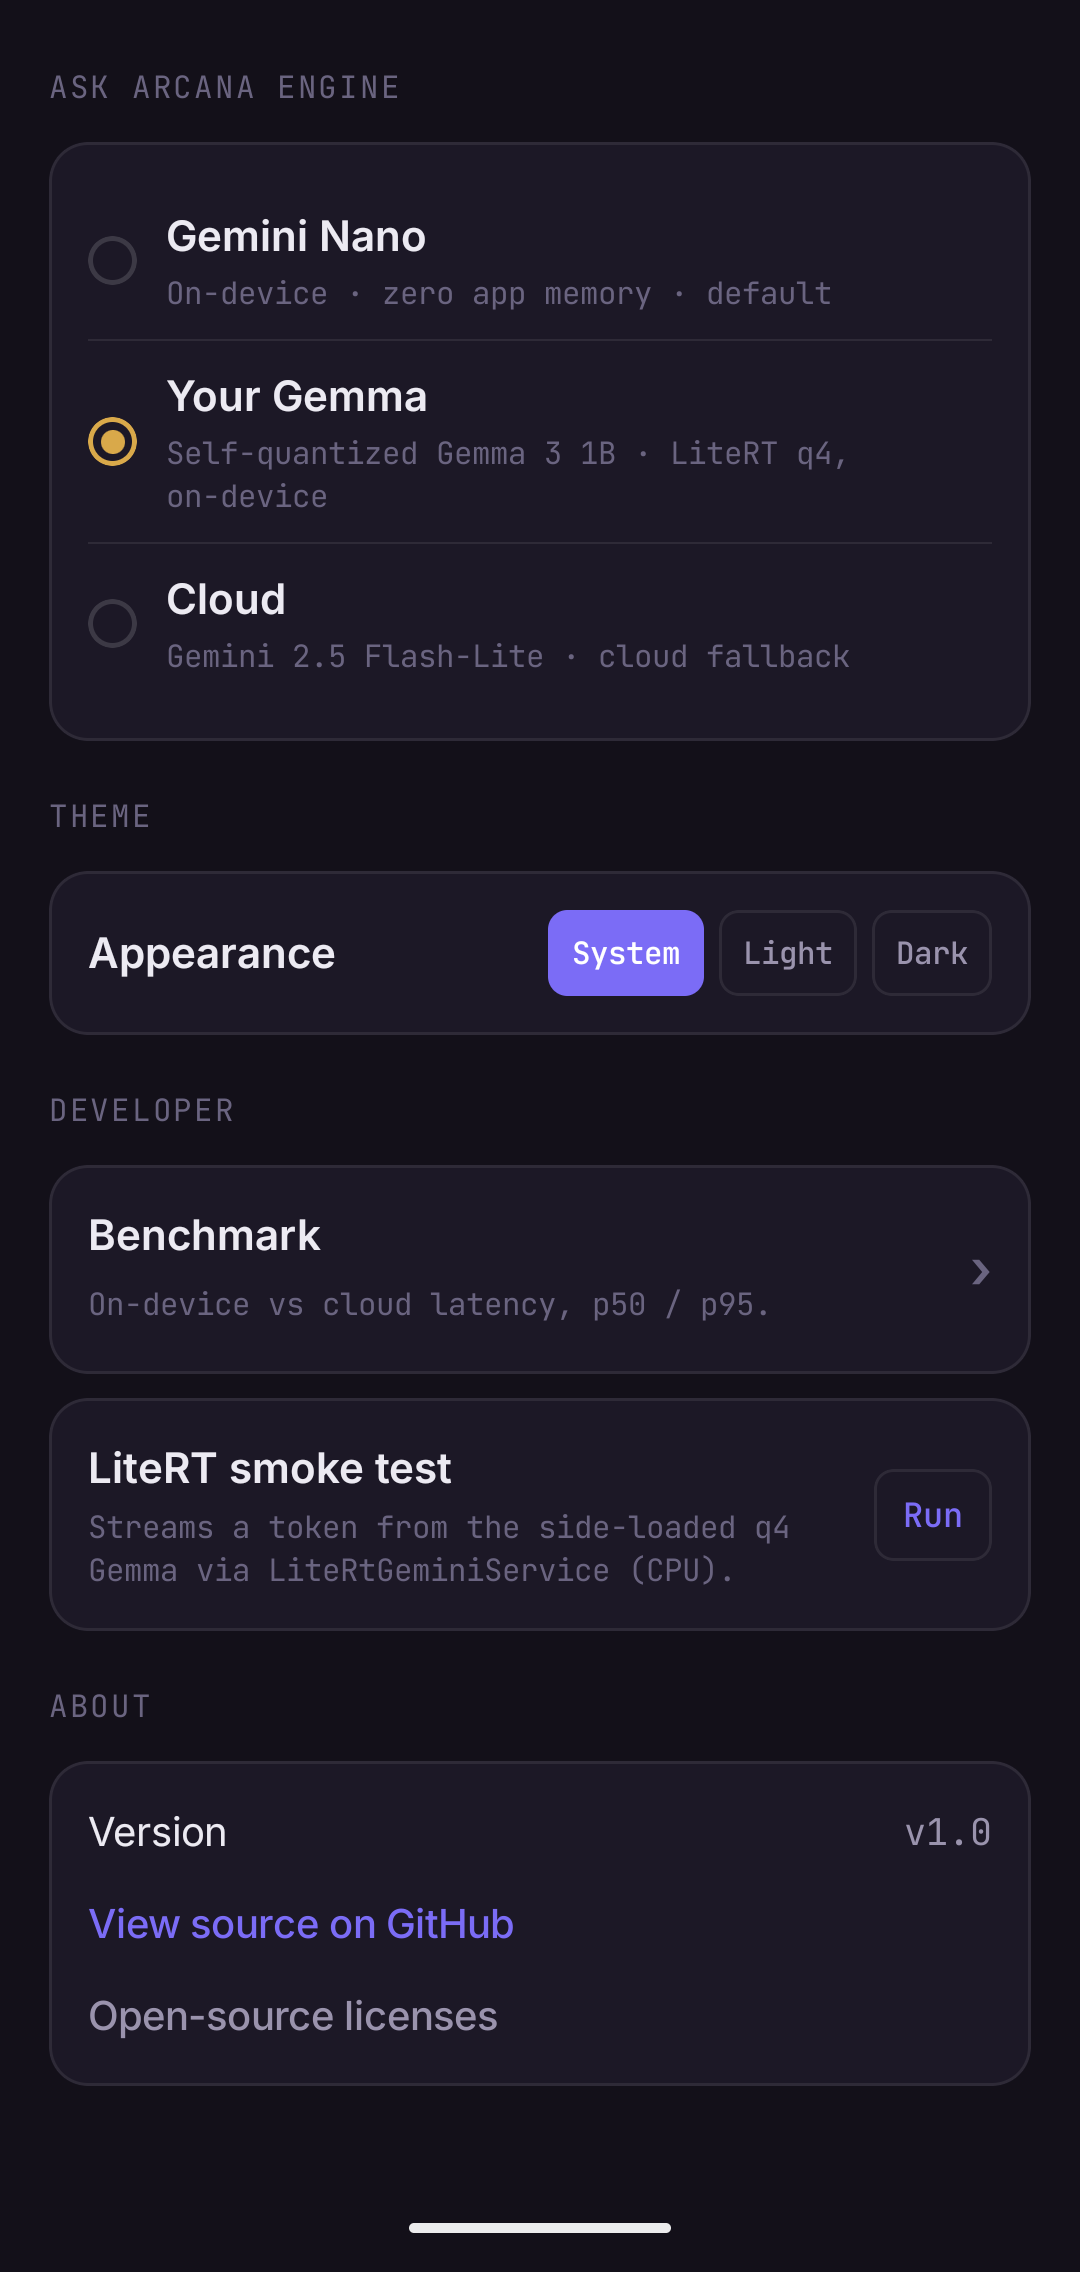
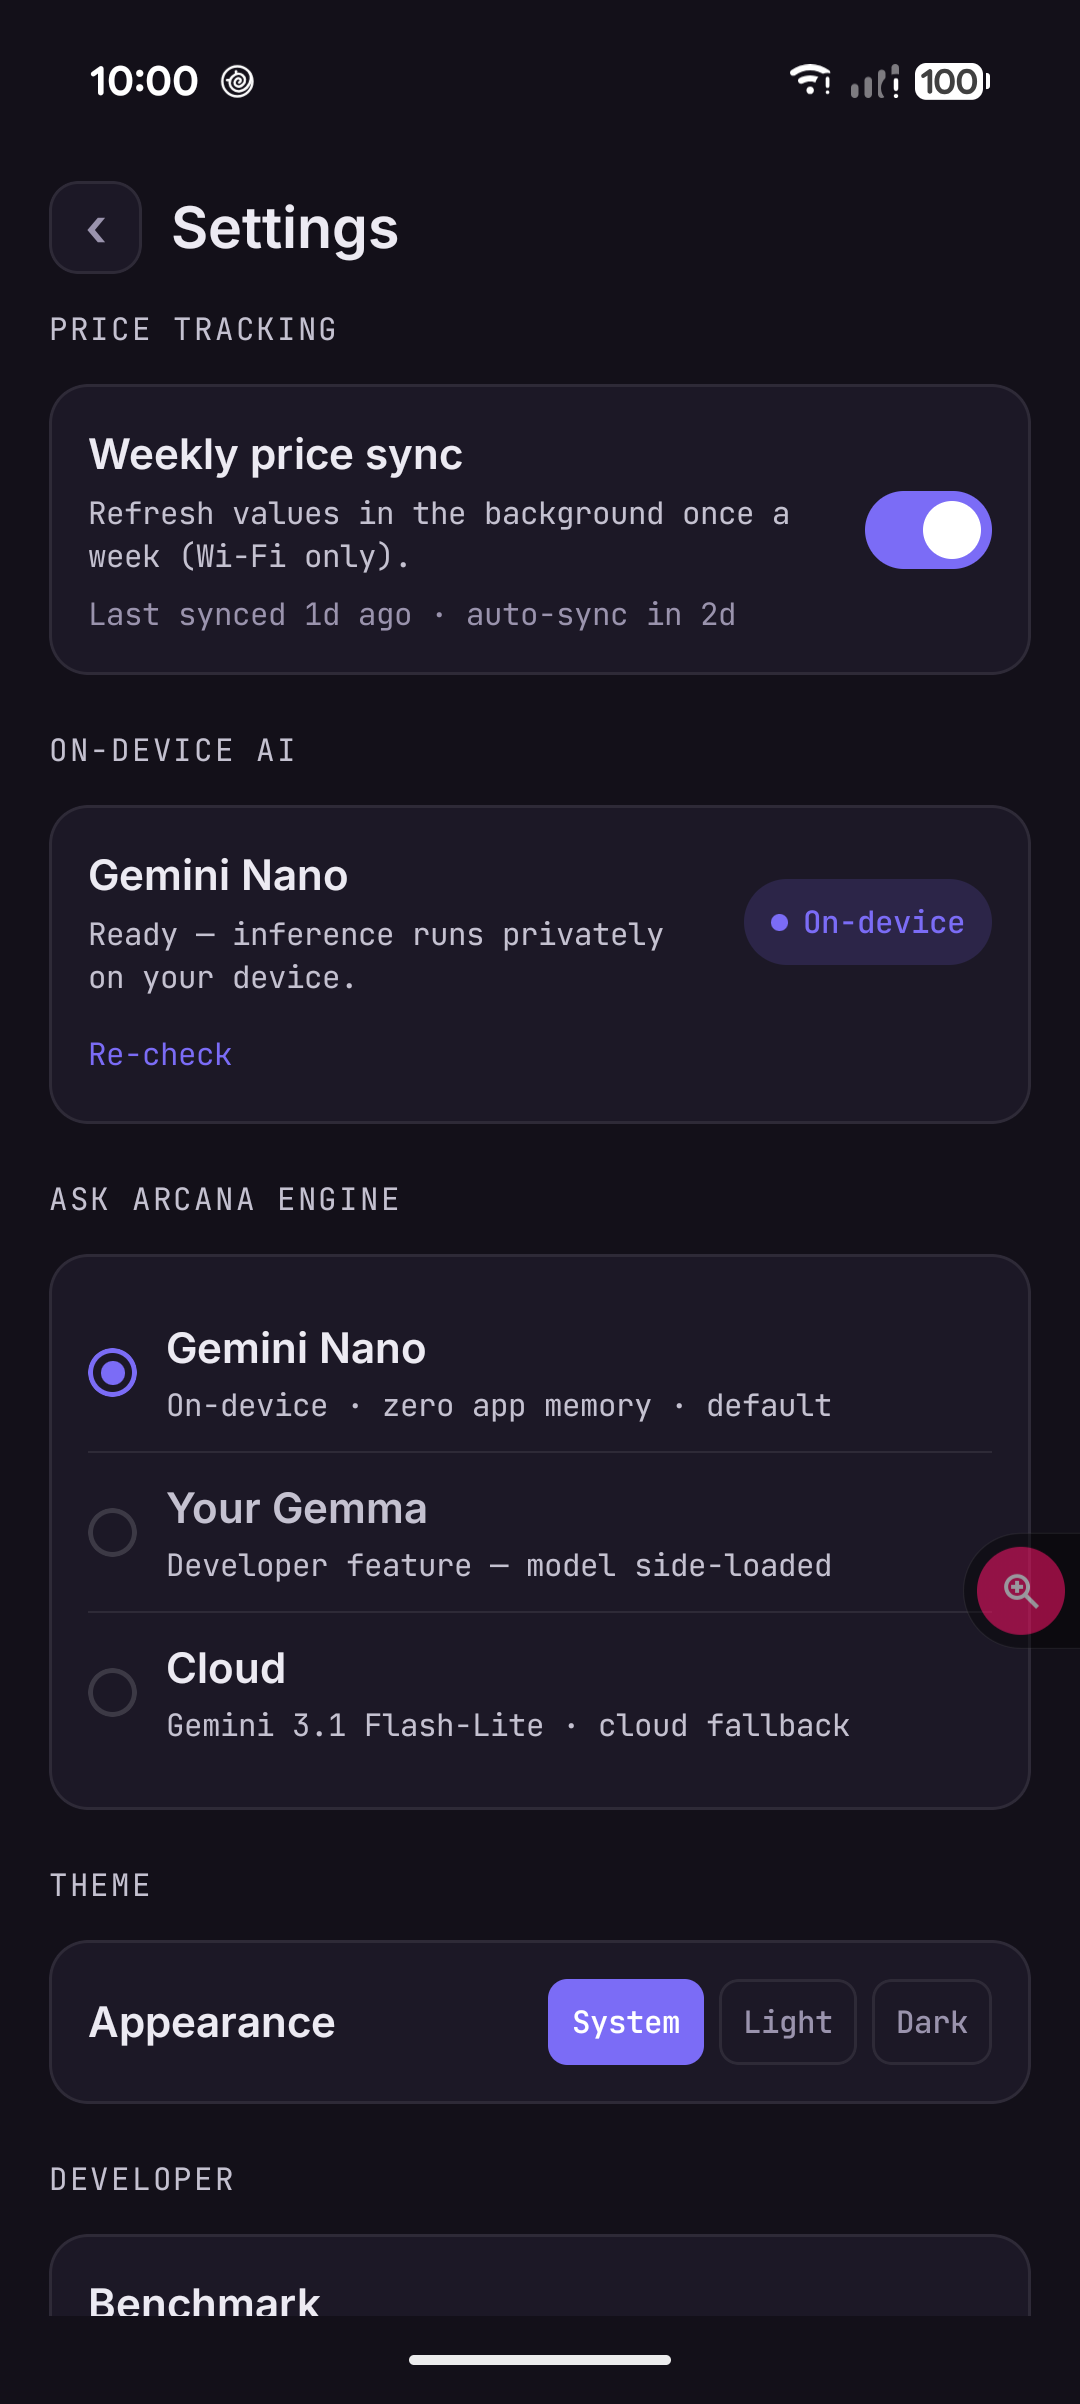
Refresh README hero shots to the _3 design; mark feature-complete
- New 3-up hero row under the capture flow: value-first home (with the
  on-device weekly summary), collection browser (per-item deltas + NFT
  badges), and item detail (tracked value vs. eBay median).
- Add the "how many Marvel -> 100 Pops" money shot to the hybrid-retrieval
  section, illustrating the SQL-fact path + grounding chips.
- Replace the engine-picker image with the current Settings screen.
- Status: Week 11 -> feature-complete (full 12-week build).
- Align the Marvel row to the real-eBay value ($2,136).
- gitignore blog drafts under docs/blog/.

diff --git a/README.md b/README.md
@@ -4,7 +4,7 @@
 
 Arcana catalogs a collection of *anything* — Funko Pops, FigPins, trading cards, sneakers — and uses **on-device Gemini Nano** to do what cloud apps can't or won't: "chat with your collection," value tracking over time, weekly AI summaries, and (soon) instant in-store identification. Every inference attempts on-device first; the cloud is a fallback, never the default. Your collection's data stays on your device.
 
-> **Status: 🚧 In active development (Week 11 of a 12-week build).** Built in the open as a portfolio piece demonstrating production-grade on-device AI on Android. **All eight Google `ai-samples` on-device capabilities are shipped**, and both halves of the measurement story are now in place — **latency *and* accuracy**. See [What works today](#what-works-today) for exactly what runs, the [benchmark](#benchmark-three-engines-measured) for measured latency across three engines, and [Accuracy](#accuracy-measured-not-asserted) for how often it's *right*.
+> **Status: ✅ Feature-complete — the full 12-week build, built in the open.** A portfolio piece demonstrating production-grade on-device AI on Android. **All eight Google `ai-samples` on-device capabilities are shipped**, and both halves of the measurement story are now in place — **latency *and* accuracy**. See [What works today](#what-works-today) for exactly what runs, the [benchmark](#benchmark-three-engines-measured) for measured latency across three engines, and [Accuracy](#accuracy-measured-not-asserted) for how often it's *right*.
 
 <p align="center">
   <img src="docs/media/capture-ondevice.gif" width="300" alt="Capture: point at a Funko box, the cascade runs visibly, and it identifies an owned pop entirely on-device" />
@@ -13,6 +13,16 @@ Arcana catalogs a collection of *anything* — Funko Pops, FigPins, trading card
 </p>
 
 <p align="center"><em>The capture flow — point the phone at a Funko box and watch the AI happen in front of you: the segmentation outline snaps on, the <code>#NNN</code> OCR callout lands, the catalog chain walks, and the identity settles. An <strong>owned</strong> pop resolves <strong>entirely on-device</strong> in ~1.6&nbsp;s, no network (left); an <strong>unowned</strong> pop <strong>escalates to cloud</strong> — the badge flips on-device→cloud (right) — then saves into your collection with a live eBay value.</em></p>
+
+<p align="center">
+  <img src="docs/media/portfolio.png" width="250" alt="Portfolio home: tracked value $30,327, up $755 this week, a 90-day sparkline, and an on-device weekly summary" />
+  &nbsp;
+  <img src="docs/media/collection.png" width="250" alt="Collection list: items with thumbnails, Pop numbers, gold NFT badges, and per-item 30-day value deltas" />
+  &nbsp;
+  <img src="docs/media/detail.png" width="250" alt="Item detail: tracked value with a last-synced label, alongside the separate eBay median active listing" />
+</p>
+
+<p align="center"><em>The value-first home (a real tracked total with an <strong>on-device</strong> weekly summary), the collection browser (per-item deltas, gold NFT badges), and item detail (tracked value vs. live eBay median, clearly distinguished).</em></p>
 
 ---
 
@@ -72,12 +82,18 @@ Measured on the real 504-item collection, on-device:
 
 | Question | Path | Answer |
 |---|---|---|
-| "how many Marvel do I own?" | **structured** | **100 Pops** (124 incl. duplicates), $2,263 |
+| "how many Marvel do I own?" | **structured** | **100 Pops** (124 incl. duplicates), $2,136 |
 | "which are NFT redeemable" | **structured** | **141 Pops**, $15,702 |
 | "any pops with dragons?" | **semantic** | Daemon Targaryen, Daenerys, **Vhagar** |
 | "spooky horror characters" | **semantic** | Pennywise, Annabelle, Freddy |
 
 The keyword-free match is the point: **"dragons" surfaces Vhagar** — a dragon whose name contains no form of the word "dragon" — from meaning alone.
+
+<p align="center">
+  <img src="docs/media/ask-marvel.png" width="300" alt="Ask Arcana answering 'how many Marvel do I own?' on-device: 'Verified facts state you own 100 Pops matching marvel (124 incl. duplicates)', with an on-device badge, latency line, and eight grounding chips" />
+</p>
+
+<p align="center"><em>The router in action: <em>"how many Marvel do I own?"</em> takes the <strong>structured</strong> path — the count is computed in SQL and handed to the model as a <strong>verified fact</strong> ("100 Pops … 124 incl. duplicates"), answered <strong>on-device</strong> in ~5.2 s, grounded in the eight most valuable matches.</em></p>
 
 **The embedding stack, and what I chose *not* to build:**
 - **EmbeddingGemma-300M** runs directly on the **LiteRT interpreter** (the AI Edge RAG SDK ships no EmbeddingGemma embedder, and its vector store over-engineers 504 items). The gated model is **side-loaded** and **presence-gated** — its absence is the lexical-fallback path, not a crash.